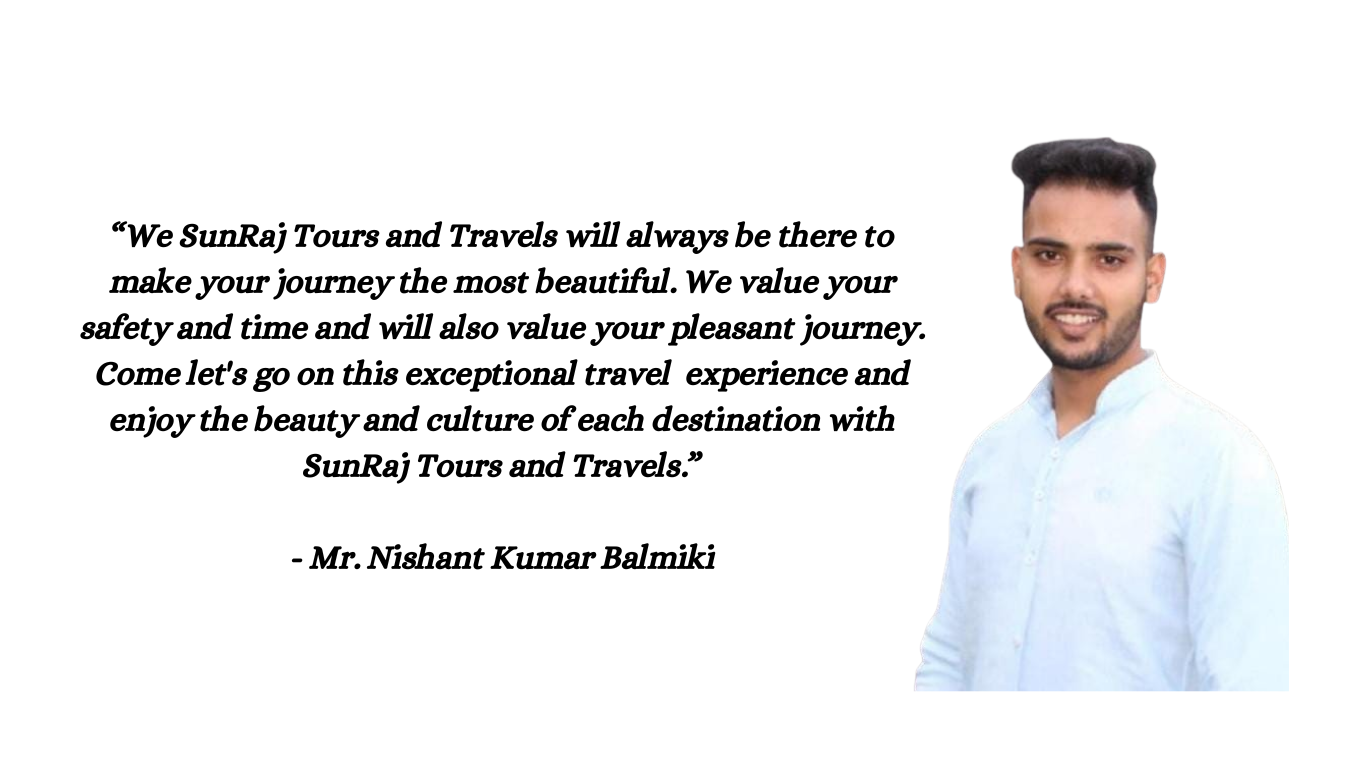
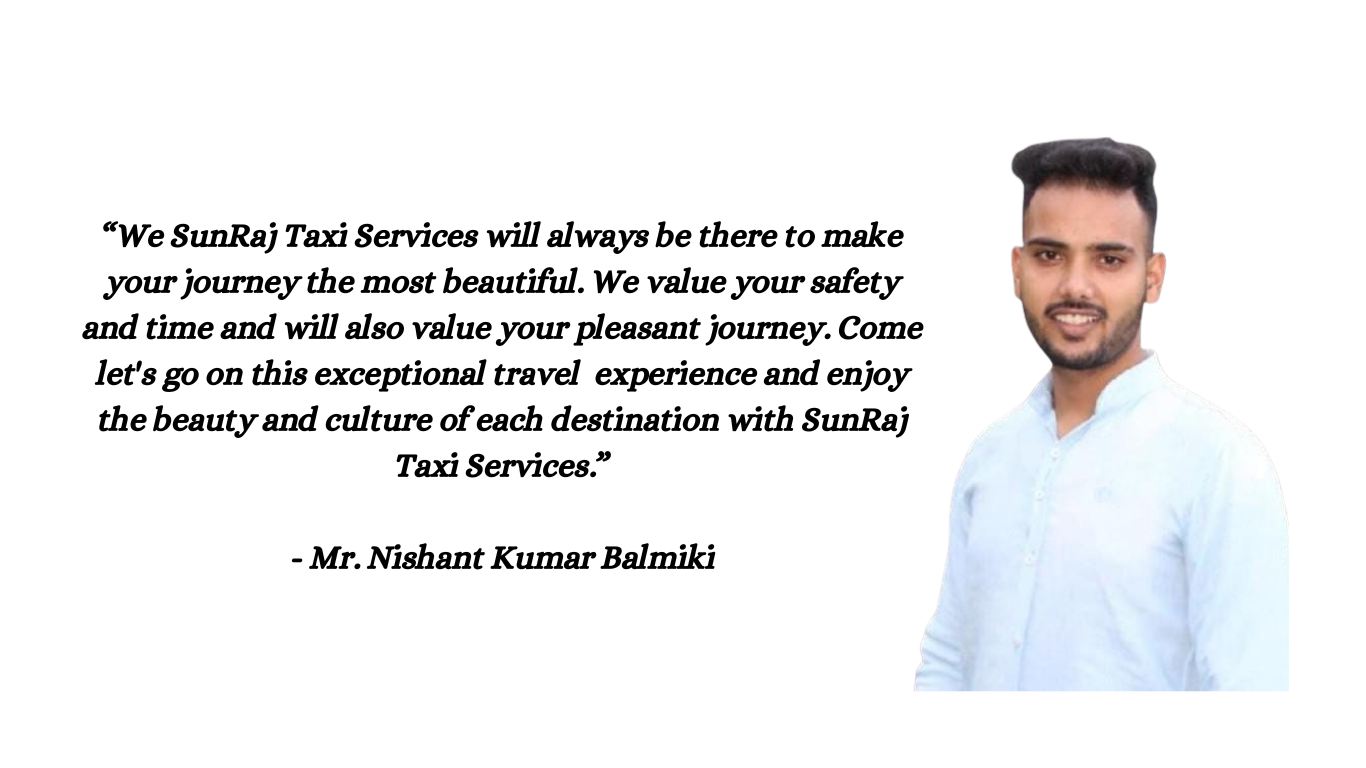
UI

Changed region(s): [[0.0615, 0.2812, 0.6764, 0.5625], [0.2152, 0.5938, 0.5227, 0.625]]

diff --git a/frontend/src/components/sections/Navbar.jsx b/frontend/src/components/sections/Navbar.jsx
@@ -1,14 +1,60 @@
+// import React, { useContext, useState } from "react";
+// import "./Navbar.css";
+// import { MenuItems } from "../MenuItems";
+// import { Link } from "react-router-dom";
+// import { AuthContext } from "../../context/AuthContext";
+// import logo from "./logo-png.png";
+
+// const Navbar = () => {
+//   const [clicked, setClicked] = useState(false);
+//   const {user, SignOut} = useContext(AuthContext);
+//   console.log(user);  
+
+//   const handleClick = () => {
+//     setClicked(!clicked);
+//   };
+
+
+//   return (
+//     <nav className="bg-white shadow-md NavbarItems">
+//       <div className="container px-4 flex justify-between items-center">
+
+//         <img src="/image/logoR.png" alt=""  className="size-20"/>
+        
+//         <div className="md:hidden" onClick={handleClick}>
+//           <i className={clicked ? "fas fa-times" : "fas fa-bars"}></i>
+//         </div>
+
+//         <ul className={`md:flex md:items-center ${clicked ? "block" : "hidden"}`}>
+//           {MenuItems.map((item, index) => (
+//             <li key={index} className="my-2 md:my-0 md:ml-4">
+//               <Link to={item.url} className={`text-gray-800 hover:text-blue-600 ${item.cName}`}>
+//                 <i className={item.icon}></i>
+//                 {item.title}
+//               </Link>
+//             </li>
+//           ))}
+//           {user && user.displayName ? <div><span>{user.displayName}</span> <button onClick={SignOut}>Log Out</button></div> : <Link className="bg-blue-600 text-white py-2 px-4 rounded md:ml-4" to="/signup">Sign Up</Link>}
+//         </ul>
+//       </div>
+//     </nav>
+//   );
+// };
+
+// export default Navbar;
+
+
 import React, { useContext, useState } from "react";
 import "./Navbar.css";
 import { MenuItems } from "../MenuItems";
 import { Link } from "react-router-dom";
 import { AuthContext } from "../../context/AuthContext";
-import logo from "./logo-png.png";
+import logo from "./logo-pngg.png";
 
 const Navbar = () => {
   const [clicked, setClicked] = useState(false);
-  const {user, SignOut} = useContext(AuthContext);
-  console.log(user);  
+  const { user, SignOut } = useContext(AuthContext);
+  console.log(user);
 
   const handleClick = () => {
     setClicked(!clicked);
@@ -17,9 +63,8 @@ const Navbar = () => {
   return (
     <nav className="bg-white shadow-md NavbarItems">
       <div className="container px-4 flex justify-between items-center">
+        <img src={logo} alt="Logo" className="yooo size-20" />
 
-        <img src="/image/logoR.png" alt=""  className="size-20"/>
-        
         <div className="md:hidden" onClick={handleClick}>
           <i className={clicked ? "fas fa-times" : "fas fa-bars"}></i>
         </div>
@@ -33,7 +78,14 @@ const Navbar = () => {
               </Link>
             </li>
           ))}
-          {user && user.displayName ? <div><span>{user.displayName}</span> <button onClick={SignOut}>Log Out</button></div> : <Link className="bg-blue-600 text-white py-2 px-4 rounded md:ml-4" to="/signup">Sign Up</Link>}
+          {user && user.displayName ? (
+            <div className="flex items-center">
+              <span className="mr-4">{user.displayName}</span>
+              <button className="bg-red-600 text-white py-1 px-3 rounded" onClick={SignOut}>Log Out</button>
+            </div>
+          ) : (
+            <Link className="bg-blue-600 text-white py-2 px-4 rounded md:ml-4" to="/signup">Sign Up</Link>
+          )}
         </ul>
       </div>
     </nav>

diff --git a/frontend/src/components/sections/Navbar.css b/frontend/src/components/sections/Navbar.css
@@ -1,4 +1,4 @@
-.NavbarItems {
+/* .NavbarItems {
     display: flex;
     justify-content: center;
     align-items: center;
@@ -12,7 +12,7 @@
     transform: translate(-50%);
     z-index: 9999;
     background-color: rgba(255, 255, 255, 0.5); 
-    backdrop-filter: blur(2.5px); /* Blur effect */
+    backdrop-filter: blur(2.5px); 
 }
 
 .log {
@@ -153,4 +153,165 @@ button:hover {
         font-size: 1.2rem;
         color: #222;
     }
+} */
+
+.NavbarItems {
+    display: flex;
+    justify-content: center;
+    align-items: center;
+    box-shadow: 0 5px 15px 0 rgba(0, 0, 0, 0.25);
+    width: 70%;
+    height: 8%;
+    border-radius: 13px;
+    position: fixed;
+    top: 20px;
+    left: 50%;
+    transform: translate(-50%);
+    z-index: 9999;
+    background-color: rgba(255, 255, 255, 0.5); 
+    backdrop-filter: blur(2.5px); 
+}
+
+.log {
+    max-width: 5vh;
+    max-height: 15px;
+}
+
+.navbar-logo {
+    color: #222;
+    font-size: 2rem;
+    cursor: pointer;
+}
+
+.nav-menu {
+    display: grid;
+    grid-template-columns: repeat(6, auto);
+    grid-gap: 10px;
+    list-style: none;
+    align-items: center;
+}
+
+.nav-links {
+    text-decoration: none;
+    color: #222;
+    font-size: 1.2rem;
+    font-weight: 600;
+    padding: 0.7rem 1rem;
+    white-space: nowrap;
+}
+
+.nav-links i {
+    padding-right: 10px;
+}
+
+.nav-links:hover {
+    background: #01959a;
+    color: #fff;
+    border-radius: 4px;
+    transition: all 0.2s ease-in-out;
+}
+
+.nav-links-mobile {
+    display: none;
+}
+
+button {
+    padding: 0.5rem 1rem;
+    white-space: nowrap;
+    border-radius: 0.2rem;
+    font-size: 1rem;
+    border: none;
+    cursor: pointer;
+    font-weight: 600;
+    height: 40px;
+    color: black;
+    background-color: transparent;
+}
+
+button:hover {
+    background-color: #161515;
+    color: #fff;
+}
+
+.menu-icons {
+    display: none;
+}
+
+@media screen and (max-width: 850px) {
+    .NavbarItems {
+        z-index: 99;
+    }
+
+    .nav-menu {
+        display: flex;
+        flex-direction: column;
+        justify-content: flex-start;
+        background: #fff;
+        width: 100%;
+        height: auto;
+        position: absolute;
+        top: 0;
+        left: -100%;
+        opacity: 0;
+        align-items: stretch;
+        padding: 80px 0 30px 0;
+        margin: 0;
+        transition: 0.3s ease-in-out;
+        border-radius: 13px;
+    }
+    
+    .nav-menu.active {
+        left: 0;
+        opacity: 1;
+        z-index: 999; /* Changed to ensure visibility */
+        transition: 0.3s ease-in-out;
+    }
+
+    .nav-links {
+        display: block;
+        width: 100%;
+        font-size: 1.2rem;
+        padding: 2rem 0;
+    }
+
+    .nav-links:hover {
+        background: #01959a;
+        transition: none;
+    }
+
+    button {
+        display: none;  
+    }
+
+    .nav-links-mobile {
+        display: block;
+        text-align: center;
+        padding: 1.5rem;
+        margin: auto;
+        border-radius: 4px;
+        width: 80%;
+        background: #01959a;
+        color: #fff;
+        font-size: 1.2rem;
+        font-weight: 700;
+        letter-spacing: 2px;
+        text-decoration: none;
+    }
+
+    .menu-icons {
+        display: block;
+        cursor: pointer;
+    }
+
+    .menu-icons i {
+        font-size: 1.2rem;
+        color: #222;
+    }
+}
+
+.yooo {
+    width: 60px;
+    height: 60px;
+    border-radius: 50%;
+    object-fit: cover;
 }

diff --git a/frontend/src/components/sections/About.jsx b/frontend/src/components/sections/About.jsx
@@ -5,15 +5,15 @@ function AboutUs() {
     <div className="about-container">
       <h1>Our History</h1>
       <p>
-        Founded two decades ago, SunrRaj Tours and Travels started as a small travel company with a passion 
+        Founded two decades ago, SunrRaj Taxi Services started as a small travel company with a passion 
         for providing exceptional travel experiences. With a commitment to offering personalized services and 
         exploring the most sought-after destinations, the company quickly gained a reputation for reliability, 
         integrity, and attention to detail.
         <br />
         In its early years, SunrRaj focused on organizing local tours, offering curated trips that allowed 
         travelers to discover hidden gems and explore the rich cultural heritage of various regions. 
-        Over the past 20 years, SunrRaj Tours and Travels has built a loyal clientele by consistently 
-        exceeding expectations and adapting to changing travel trends.
+        Over the past 20 years, SunrRaj Taxi Services has built a loyal clientele by consistently 
+        exceeding expectations and adapting to changing travel trends.
       </p>
       
 
@@ -23,7 +23,7 @@ function AboutUs() {
       expectations. We are committed to providing seamless, safe, and sustainable travel solutions, offering 
       unique itineraries that showcase the beauty and culture of each destination. By fostering a passion for 
       exploration and adventure, we strive to create meaningful connections between travelers and the world, 
-      while promoting responsible tourism practices that preserve the environment and support local communities.
+      while promoting responsible tourism practices that preserve the environment and support local communities.
       </p>
 
       <h1>Our Vision</h1>

diff --git a/frontend/src/components/Constant.js b/frontend/src/components/Constant.js
@@ -28,7 +28,7 @@ const toursData = {
   {
     "title": "himalaya",
     "description" : "Situated about 8 km from Nainital, the Himalaya Darshan viewpoint offers panoramic views of the majestic Himalayan peaks. It is one of the most popular attractions in Nainital and a perfect spot for nature lovers. The view of the snow-clad peaks, surrounded by lush green hills and valleys, provides a serene and peaceful experience.",
-    "heading": "Himalaya Darshan (2 Hours by Taxi)",
+    "heading": "Himalaya Darshan",
     "locations": [
         "Khurpatal View",
         "Bara Pathar",
@@ -48,7 +48,7 @@ const toursData = {
     {
         "title": "lake",
         "description" : "Nainital and the surrounding areas are dotted with serene lakes, each offering unique experiences. For instance, Bhimtal, Sattal, and Naukuchia Tal are all famous for their tranquil settings and opportunities for boating and nature walks. Sattal, a group of seven interconnected lakes, is perfect for a day trip, while Bhimtal offers a large lake with an island in the middle.",
-        "heading": "Lake Tour (Half Day by Taxi)",
+        "heading": "Lake Tour",
         "locations": [
           "Pines Salfi",
           "Bhowali",
@@ -69,7 +69,7 @@ const toursData = {
       {
         "title": "mukteshwar",
         "description" : "Mukteshwar, located about 51 km from Nainital, is a peaceful hill station known for its panoramic views of the Himalayas. Attractions include the Mukteshwar Mahadev Temple, a revered spot for pilgrims, the Gorakhal Temple, and scenic tea gardens. It’s an excellent destination for those seeking solitude and natural beauty.",
-        "heading": "Mukteshwar (6-7 Hours by Taxi)",
+        "heading": "Mukteshwar",
         "locations": [
           "Pines Salfi",
           "Bhowali",

diff --git a/frontend/src/components/sections/Footer.jsx b/frontend/src/components/sections/Footer.jsx
@@ -1,6 +1,6 @@
 import "./Footer.css";
 import { FontAwesomeIcon } from '@fortawesome/react-fontawesome'
-import {faFacebook, faInstagram, faWhatsapp} from "@fortawesome/free-brands-svg-icons";
+import { faInstagram, faWhatsapp} from "@fortawesome/free-brands-svg-icons";
 import { Link } from "react-router-dom";
 
 const Footer = () => {
@@ -20,7 +20,7 @@ const Footer = () => {
     <div className="footer">
       <div className="bottom">
         <div className="FLEX">
-          <h1 className="font-bold text-xl">SunRaj Tours and Travels</h1>
+          <h1 className="font-bold text-xl">SunRaj Taxi Services</h1>
           <p>Embark on unforgettable journeys.</p>
         </div>
         
@@ -39,7 +39,6 @@ const Footer = () => {
           <a href="https://www.instagram.com" target="_blank">
             <FontAwesomeIcon icon={faInstagram}/> Instagram
           </a>
-          <a href="https://www.twitter.com/yourpage" target="_blank"><FontAwesomeIcon icon={faFacebook}/>  Facebook</a>
         </div>
         <div>
           <h4>Others</h4>

diff --git a/frontend/src/components/destination/TourDetail.jsx b/frontend/src/components/destination/TourDetail.jsx
@@ -6,7 +6,7 @@ const TourDetail = ({ title, heading, locations, prices, imageUrl, description }
  
   return (
     <div className="tourContainer w-screen p-5 FLEX flex-col">
-      <h1 className="text-xl font-bold">{heading}</h1>
+      <h1 className="text-xl font-bold p-5">{heading}</h1>
       <section className="m-8">
         {description}
       </section>

diff --git a/frontend/src/components/trip/Trip.jsx b/frontend/src/components/trip/Trip.jsx
@@ -7,7 +7,7 @@ import Trip3 from "../../assets/6.jpg";
 function Trip() {
   return (
     <div className="trip">
-      <h1 className="text-2xl font-bold p-5">Recent Trips</h1>
+      <h1 className="text-lg font-bold p-5">Recent Trips</h1>
       <p>You can discover unique destinations using Google Maps.</p>
       <div className="tripcard">
         <TripData

diff --git a/frontend/src/routes/Home.jsx b/frontend/src/routes/Home.jsx
@@ -39,7 +39,7 @@ function Home() {
        <Hero 
        cName="hero" 
        heroImg={HomeImage}
-      title="SunRaj Tour and Travels"
+      title="SunRaj Taxi Services"
        text="EMBARK ON UNFORGETTABLE JOURNEYS" 
        buttonText="Get Started"
        url="/"
